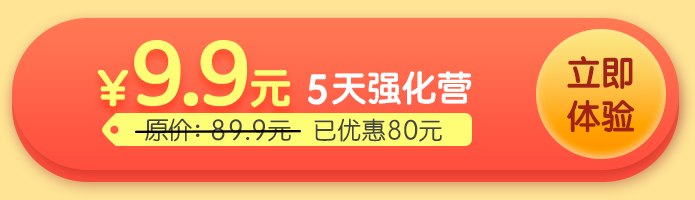
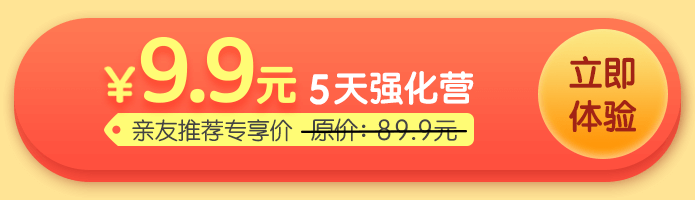
AIPL-13285: [feature] change index version

diff --git a/src/assets/css/index.less b/src/assets/css/index.less
@@ -1,4 +1,4 @@
-@primary-color: #fc5045;
+@primary-color: #f04a4e;
 @text-color: #444;
 
 .bground {
